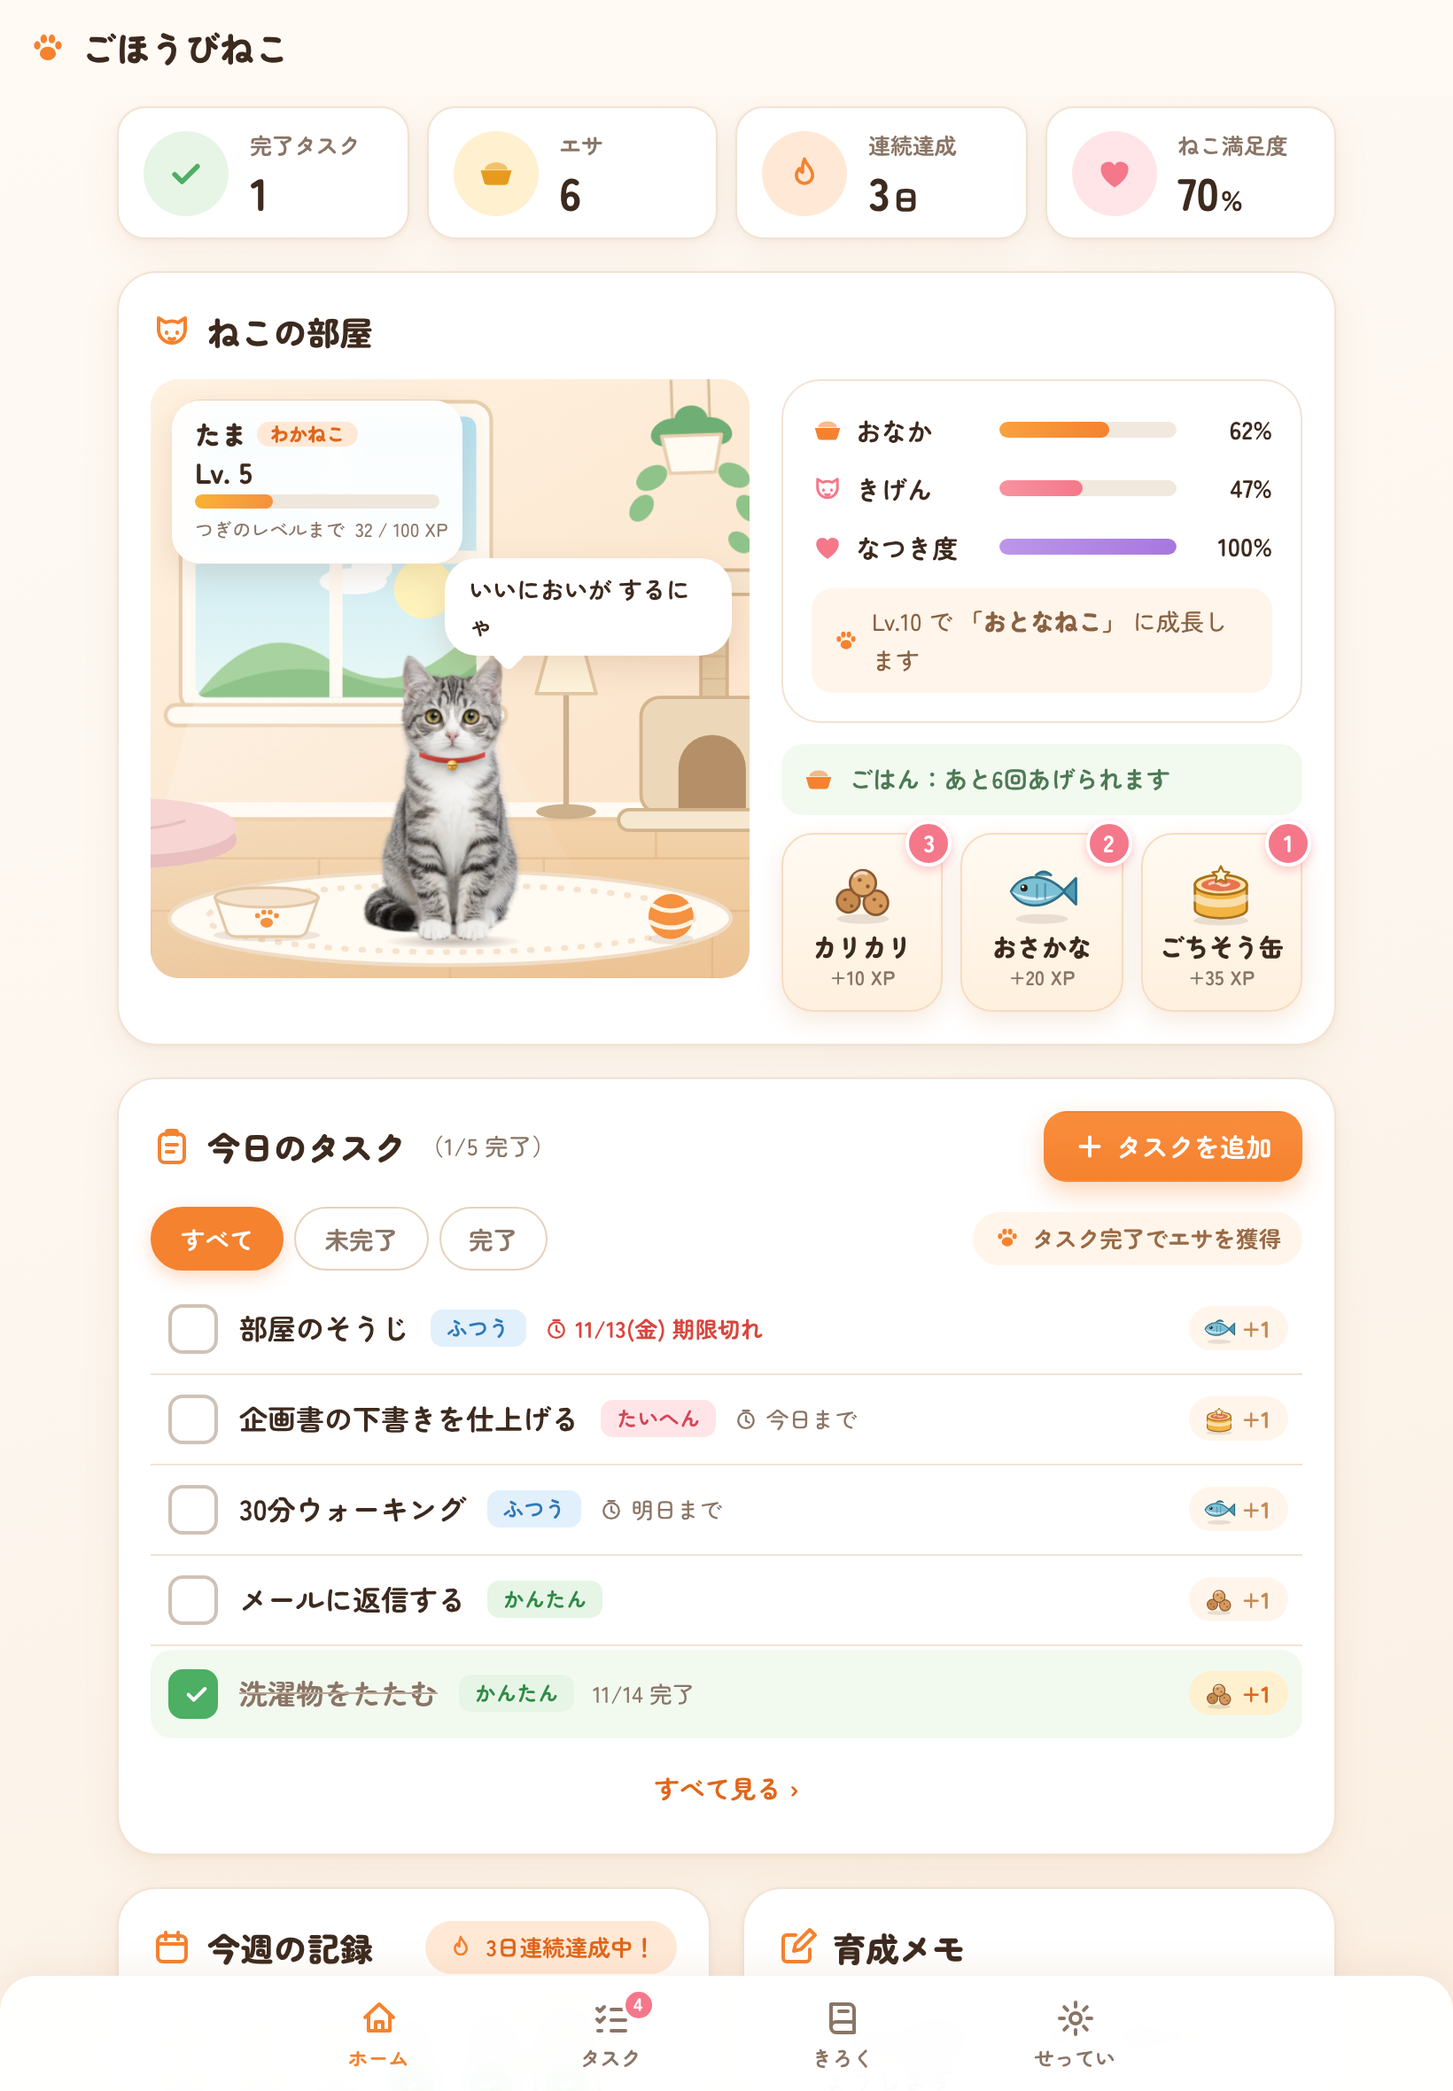
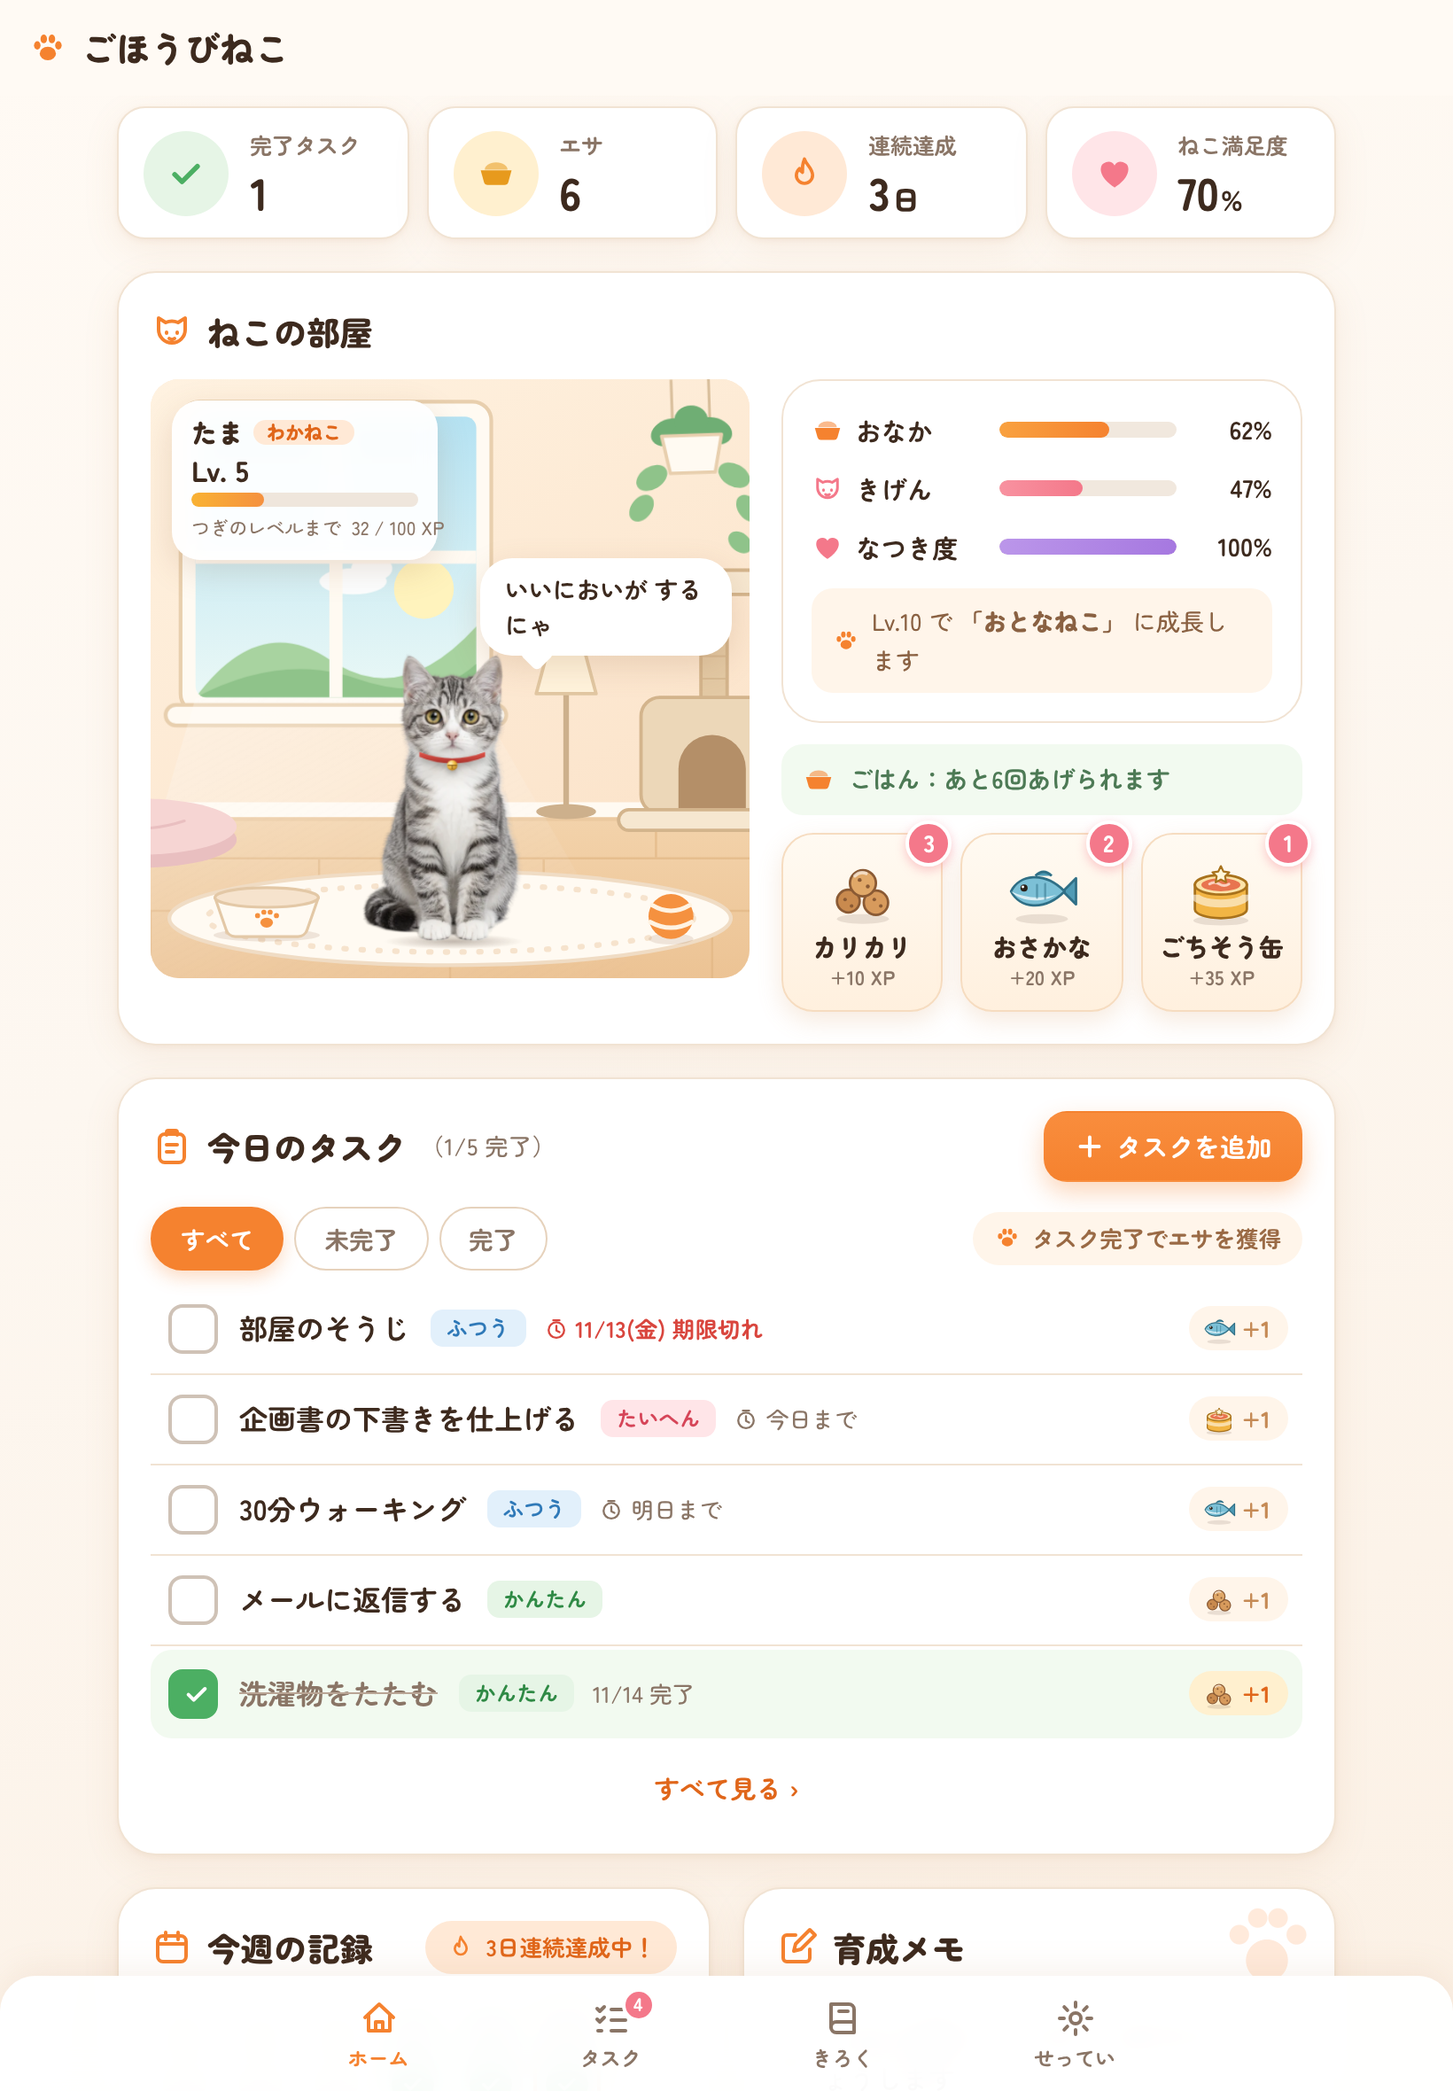
UI崩れの修正（小さいスマホ・中間幅・王冠・背景）
- 幅320〜360pxで横にはみ出していた箇所を修正（余白・文字サイズ・見出しの折り返し）
- サイドバーへの切り替えを1024px以上に変更し、中間幅で文字が細切れになる問題を解消
- 1100〜1499pxでは部屋カードを縦積みにして、折り返しと重なりを解消
- 王冠のサイズと位置、育成メモの飾りの位置を調整
- 背景の固定指定をやめ、下部が白く抜けないようにした
- 画面幅10種類の自動チェックスクリプトと、幅320pxのE2Eを追加

Claude-Session: https://claude.ai/code/session_0112UXkmngyyzgaREKQpe6dQ

Changed region(s): [[0.1244, 0.1856, 0.4665, 0.3403], [0.8396, 0.897, 0.9018, 0.9589]]

diff --git a/src/app/globals.css b/src/app/globals.css
@@ -55,7 +55,9 @@ body {
   font-size: 16px;
   line-height: 1.6;
   color: var(--ink);
-  background: linear-gradient(160deg, #fffaf4 0%, var(--bg) 45%, #fbefe2 100%) fixed;
+  /* fixed は iOS Safari で効かないため使わない。背景色を下地にして、どこまでスクロールしても抜けないようにする */
+  background-color: var(--bg);
+  background-image: linear-gradient(160deg, #fffaf4 0%, var(--bg) 600px, #fbefe2 100%);
   -webkit-font-smoothing: antialiased;
 }
 h1, h2, h3, p, ul, ol, fieldset { margin: 0; padding: 0; }
@@ -153,10 +155,10 @@ small { font-size: 0.8em; }
   border: 2px solid #fff;
 }
 
-@media (min-width: 900px) {
+@media (min-width: 1024px) {
   .shell { display: grid; grid-template-columns: 248px minmax(0, 1fr); }
   .topbar { display: none; }
-  .main { max-width: 1240px; width: 100%; padding: 30px 36px 48px; }
+  .main { max-width: 1360px; width: 100%; padding: 30px 36px 48px; justify-self: center; }
   .nav {
     position: sticky;
     top: 0;
@@ -214,10 +216,12 @@ small { font-size: 0.8em; }
   display: flex;
   justify-content: space-between;
   align-items: center;
-  gap: 10px;
+  gap: 8px 10px;
+  flex-wrap: wrap;
   margin-bottom: 14px;
 }
-.card__head .card__title { margin-bottom: 0; white-space: nowrap; }
+.card__head .card__title { margin-bottom: 0; flex-wrap: wrap; row-gap: 0; min-width: 0; }
+.card__head > .btn, .card__head > .hint-pill { margin-left: auto; }
 .only-wide { display: none; }
 @media (min-width: 480px) { .only-wide { display: inline; } }
 .card__title {
@@ -412,7 +416,7 @@ fieldset:disabled .choice__item { opacity: 0.6; cursor: not-allowed; }
 .toast__reward { display: flex; align-items: center; gap: 10px; }
 .toast__reward svg { animation: pop 0.5s cubic-bezier(0.2, 1.6, 0.4, 1); }
 @keyframes toast-in { from { opacity: 0; transform: translateY(16px) scale(0.9); } }
-@media (min-width: 900px) { .toast-region { bottom: 28px; left: 248px; } }
+@media (min-width: 1024px) { .toast-region { bottom: 28px; left: 248px; } }
 
 /* ---------- ダッシュボード ---------- */
 .dash {
@@ -429,7 +433,7 @@ fieldset:disabled .choice__item { opacity: 0.6; cursor: not-allowed; }
 .weekcard { grid-area: week; }
 .notecard { grid-area: notes; }
 
-.stats { display: grid; grid-template-columns: repeat(2, 1fr); gap: 10px; }
+.stats { display: grid; grid-template-columns: repeat(2, minmax(0, 1fr)); gap: 10px; }
 .stat {
   display: grid;
   grid-template-columns: auto 1fr;
@@ -447,7 +451,7 @@ fieldset:disabled .choice__item { opacity: 0.6; cursor: not-allowed; }
 .stat--accent .stat__icon { background: var(--accent-soft); color: var(--accent); }
 .stat--sun .stat__icon { background: var(--sun-soft); color: #e79a1d; }
 .stat--pink .stat__icon { background: var(--pink-soft); color: var(--pink); }
-.stat__label { grid-area: label; font-size: 0.78rem; font-weight: 700; color: var(--ink-soft); align-self: end; }
+.stat__label { grid-area: label; font-size: 0.78rem; font-weight: 700; color: var(--ink-soft); align-self: end; min-width: 0; overflow-wrap: anywhere; }
 .stat__value { grid-area: value; font-size: 1.6rem; font-weight: 900; line-height: 1.15; font-variant-numeric: tabular-nums; align-self: start; }
 .stat__value small { font-size: 0.62em; margin-left: 1px; }
 
@@ -642,7 +646,7 @@ fieldset:disabled .choice__item { opacity: 0.6; cursor: not-allowed; }
 .food:active:not(:disabled) { transform: scale(0.96); }
 .food:disabled { cursor: not-allowed; background: #faf5ef; border-color: var(--line); box-shadow: none; }
 .food:disabled svg, .food:disabled .food__name, .food:disabled .food__xp { opacity: 0.4; }
-.food__name { font-weight: 900; font-size: 0.88rem; line-height: 1.3; }
+.food__name { font-weight: 900; font-size: 0.88rem; line-height: 1.3; white-space: nowrap; }
 .food__xp { font-size: 0.7rem; color: var(--ink-soft); font-weight: 700; }
 .food__count {
   position: absolute;
@@ -719,11 +723,11 @@ fieldset:disabled .choice__item { opacity: 0.6; cursor: not-allowed; }
 .notecard::after {
   content: "";
   position: absolute;
-  right: 14px;
-  bottom: -6px;
-  width: 84px;
-  height: 84px;
-  opacity: 0.5;
+  right: 12px;
+  top: 6px;
+  width: 52px;
+  height: 52px;
+  opacity: 0.6;
   background: radial-gradient(circle at 50% 66%, #ffdcc4 0 27%, transparent 28%), radial-gradient(circle at 20% 38%, #ffdcc4 0 10%, transparent 11%),
     radial-gradient(circle at 40% 20%, #ffdcc4 0 10%, transparent 11%), radial-gradient(circle at 62% 20%, #ffdcc4 0 10%, transparent 11%),
     radial-gradient(circle at 82% 38%, #ffdcc4 0 10%, transparent 11%);
@@ -732,7 +736,7 @@ fieldset:disabled .choice__item { opacity: 0.6; cursor: not-allowed; }
 
 @media (min-width: 640px) {
   .dash { gap: 18px; grid-template-columns: repeat(2, minmax(0, 1fr)); grid-template-areas: "tiles tiles" "room room" "tasks tasks" "week notes"; }
-  .stats { grid-template-columns: repeat(4, 1fr); }
+  .stats { grid-template-columns: repeat(4, minmax(0, 1fr)); }
   .roomcard {
     padding: 18px;
     border: var(--border);
@@ -761,17 +765,61 @@ fieldset:disabled .choice__item { opacity: 0.6; cursor: not-allowed; }
   }
   .pantry__hint svg { color: var(--accent); flex: none; }
   .room { aspect-ratio: 1 / 1; border-radius: 16px; }
-  .room__bubble { top: 30%; right: 3%; max-width: 48%; }
+  .room__bubble { top: 30%; right: 3%; max-width: 42%; }
   .room__cat { width: 40%; }
-  .lvcard { width: 164px; }
+  .lvcard { width: 150px; padding: 8px 11px 9px; }
   .roomcard__scene { align-self: start; }
 }
 @media (min-width: 1100px) {
-  .dash { grid-template-columns: minmax(0, 0.82fr) minmax(0, 1.18fr); grid-template-areas: "head head" "tiles tiles" "tasks room" "week notes"; }
+  /* 2カラム。幅がまだ狭いので、部屋カードの中は縦に積む（部屋 → ごはん → メーター） */
+  .dash { grid-template-columns: repeat(2, minmax(0, 1fr)); grid-template-areas: "head head" "tiles tiles" "tasks room" "week notes"; }
   .dash__head { display: flex; }
+  .roomcard { grid-template-columns: minmax(0, 1fr); grid-template-areas: "title" "scene" "pantry" "meters"; grid-template-rows: auto; row-gap: 14px; }
+  .room { aspect-ratio: 16 / 10; }
+  .room__cat { width: 27%; }
+  .room__bubble { max-width: 46%; }
+  .lvcard { width: 164px; }
+}
+@media (min-width: 1500px) {
+  /* 十分広いときだけ、部屋の右にメーターとごはんを並べる */
+  .dash { grid-template-columns: minmax(0, 0.85fr) minmax(0, 1.15fr); }
+  .roomcard { grid-template-columns: minmax(0, 1.15fr) minmax(0, 1fr); grid-template-areas: "title title" "scene meters" "scene pantry"; grid-template-rows: auto auto 1fr; }
+  .room { aspect-ratio: 1 / 1; }
+  .room__cat { width: 40%; }
+  .room__bubble { max-width: 42%; }
+  .lvcard { width: 150px; }
   .stat { padding: 16px 20px; }
   .stat__icon { width: 56px; height: 56px; }
   .stat__value { font-size: 1.8rem; }
+}
+/* 小さいスマホ（〜380px） */
+@media (max-width: 380px) {
+  .main { padding-left: 12px; padding-right: 12px; }
+  .roomcard__scene { margin: 0 -12px; }
+  .card { padding: 14px; }
+  .stats { gap: 8px; }
+  .stat { padding: 10px; column-gap: 8px; }
+  .stat__icon { width: 34px; height: 34px; }
+  .stat__icon svg { width: 17px; height: 17px; }
+  .stat__label { font-size: 0.7rem; line-height: 1.3; }
+  .stat__value { font-size: 1.35rem; }
+  .lvcard { width: 150px; padding: 7px 10px 8px; }
+  .room__bubble { max-width: 44%; font-size: 0.76rem; padding: 6px 10px; }
+  .pantry__list { gap: 7px; }
+  .food__name { font-size: 0.78rem; }
+  .card__sub { flex-basis: 100%; margin-left: 32px; }
+  .hint-pill { font-size: 0.74rem; padding: 4px 10px; }
+  .filters__tab { padding: 4px 12px; font-size: 0.82rem; }
+  .legend { gap: 6px; }
+  .legend__item { font-size: 0.8rem; }
+  .legend__item small { white-space: normal; font-size: 0.66rem; }
+  .card--list { padding: 4px 8px; }
+  .tasks--full .task__plus { display: none; }
+  .tasks--full .task__reward { padding: 2px 5px; }
+  .task__actions .icon-btn { width: 27px; }
+  .page__title { font-size: 1.4rem; }
+  .week { gap: 4px; }
+  .log__item { grid-template-columns: 30px 1fr auto; gap: 8px; }
 }
 
 /* ---------- タスク ---------- */
@@ -828,7 +876,7 @@ fieldset:disabled .choice__item { opacity: 0.6; cursor: not-allowed; }
 .task__reward.is-got { background: var(--sun-soft); color: var(--accent-deep); }
 .task__actions { display: flex; flex: none; }
 .tasks--home .task__actions { display: none; }
-@media (min-width: 900px) { .tasks--home .task__actions { display: flex; } }
+@media (min-width: 1500px) { .tasks--home .task__actions { display: flex; } }
 @media (max-width: 480px) {
   .task { gap: 8px; padding-right: 0; padding-left: 6px; }
   .task__actions .icon-btn { width: 30px; }
@@ -837,7 +885,7 @@ fieldset:disabled .choice__item { opacity: 0.6; cursor: not-allowed; }
   .tasks--full .task__reward svg { width: 17px; height: 17px; }
 }
 /* 右下の追加ボタンが最後の行に重ならないよう、下に余白をとる */
-@media (max-width: 899px) { .page:has(.fab) { padding-bottom: 76px; } }
+@media (max-width: 1023px) { .page:has(.fab) { padding-bottom: 76px; } }
 @keyframes task-in { from { opacity: 0; transform: translateY(8px); } }
 
 .empty {
@@ -881,12 +929,12 @@ fieldset:disabled .choice__item { opacity: 0.6; cursor: not-allowed; }
   transition: transform 0.12s;
 }
 .fab:active { transform: scale(0.92); }
-@media (min-width: 900px) {
+@media (min-width: 1024px) {
   .page__add { display: inline-flex; }
   .fab { display: none; }
 }
 
-.legend { display: grid; grid-template-columns: repeat(3, 1fr); gap: 8px; }
+.legend { display: grid; grid-template-columns: repeat(3, minmax(0, 1fr)); gap: 8px; }
 .legend__item {
   display: flex;
   align-items: center;
@@ -1122,11 +1170,11 @@ fieldset:disabled .choice__item { opacity: 0.6; cursor: not-allowed; }
 }
 .cat__crown {
   position: absolute;
-  width: 28%;
-  transform: translate(-50%, -78%) rotate(-4deg);
+  width: 17%;
+  transform: translate(-50%, -62%) rotate(-4deg);
   filter: drop-shadow(0 3px 3px rgba(0, 0, 0, 0.3));
 }
-.cat--eating .cat__crown { width: 22%; transform: translate(-50%, -70%) rotate(6deg); }
+.cat--eating .cat__crown { width: 15%; transform: translate(-50%, -75%) rotate(6deg); }
 .cat__zzz {
   position: absolute;
   right: -34%;

diff --git a/tests/e2e/app.spec.ts b/tests/e2e/app.spec.ts
@@ -230,3 +230,18 @@ test("Lv.5になると進化の演出が出て、姿が変わる", async ({ page
   await page.getByRole("button", { name: "やったね" }).click();
   await expect(page.locator(".lvcard__stage")).toHaveText("わかねこ");
 });
+
+test("小さいスマホ（幅320px）でも、どの画面も横にはみ出さない", async ({ browser }) => {
+  const ctx = await browser.newContext({ viewport: { width: 320, height: 640 } });
+  const page = await ctx.newPage();
+  await start(page, "ながいなまえのねこちゃん");
+  await addTask(page, "来週の定例会議で使う四半期レポートの下書きを仕上げてチームに共有する", "hard");
+  await addTask(page, "Supercalifragilisticexpialidocious-and-a-long-unbroken-word", "easy");
+  for (const path of ["/", "/tasks", "/records", "/settings"]) {
+    await page.goto(path);
+    await expect(page.locator("main .card").first()).toBeVisible();
+    const overflow = await page.evaluate(() => document.documentElement.scrollWidth - document.documentElement.clientWidth);
+    expect(overflow, `${path} が横にはみ出している`).toBeLessThanOrEqual(0);
+  }
+  await ctx.close();
+});

diff --git a/src/components/TaskList.tsx b/src/components/TaskList.tsx
@@ -175,7 +175,7 @@ export function TaskList({ tasks, variant = "full" }: Props) {
               </div>
               <span className={`task__reward${done ? " is-got" : ""}`} title={`${done ? "もらった" : "終えるともらえる"}ごほうび：${FOODS[d.food].name}`}>
                 <FoodIcon food={d.food} size={20} />
-                +1
+                <span className="task__plus">+1</span>
               </span>
               <div className="task__actions">
                 <button type="button" className="icon-btn" onClick={() => setEditing(task)} aria-label={`「${task.title}」を編集`} title="編集">

diff --git a/docs/REPORT.md b/docs/REPORT.md
@@ -118,6 +118,18 @@ CSP の `script-src` は、Next.js が出力するインラインスクリプト
 - 公開先のサーバー・TLS・DNS の設定は診断対象外（デプロイ先が未定のため）
 - 診断はツールによる自動実行と目視で、第三者による診断ではない
 
+### UI崩れの修正（2026-11-15）
+
+320〜1920px の10種類の幅で全画面を撮影し、はみ出し・重なり・文字切れを機械的に検出（`scripts/ui-check.mjs`）したうえで目視確認した。
+
+| 幅 | 崩れ | 対応 |
+| --- | --- | --- |
+| 320〜360px | ホームの「タスクを追加」ボタン、タスク画面のむずかしさ説明・絞り込みが画面外にはみ出し、横スクロールが出ていた | 小さいスマホ用の余白・文字サイズを追加。見出しを折り返せるようにし、ボタン文言を「追加」に短縮 |
+| 900〜1099px | サイドバーが出る幅で本文が狭くなり、統計タイルの文字が1〜2文字ずつ折り返していた | サイドバーへの切り替えを 1024px からに変更 |
+| 1100〜1499px | 2カラムの部屋カードが狭く、「ごちそう缶」が折り返し、ふきだしがねこに重なっていた | この幅では部屋カードの中身を縦積みにし、横並びは 1500px 以上に限定 |
+| 全幅 | 王冠が大きすぎて頭からはみ出していた／育成メモの肉球の飾りが本文に重なっていた | 王冠を小さくして耳のあいだに配置／飾りを見出しの右上へ移動 |
+| PC 全般 | 背景を画面固定（`fixed`）にしていたため、iOS Safari や長いページで下部が白く抜けうる | 背景色を下地にして固定指定をやめた |
+
 ## 2. 実装済み機能（動作確認済み）
 
 - 初回起動時の名付け（空の名前は拒否）
@@ -139,7 +151,7 @@ CSP の `script-src` は、Next.js が出力するインラインスクリプト
 | --- | --- | --- |
 | 型チェック | `npm run typecheck` | エラーなし |
 | 単体テスト | `npm test` | 3ファイル 46件 すべて成功 |
-| E2E テスト | `npm run e2e` | 18シナリオ × 2画面幅（1280×800 / Pixel 7）＝36件 すべて成功（うちセキュリティ・異常系 10シナリオ） |
+| E2E テスト | `npm run e2e` | 19シナリオ × 2画面幅（1280×800 / Pixel 7）＝38件 すべて成功（うちセキュリティ・異常系 10シナリオ、幅320pxのはみ出し確認 1シナリオ） |
 | ビルド | `npm run build` | 成功（全ページ静的生成） |
 | レスポンシブ | スクリーンショット目視（390 / 820 / 1440px）＋ E2E で横スクロールなしを確認 | 問題なし |
 | コンソールエラー | 主要フロー操作中のブラウザコンソール | エラーなし |
